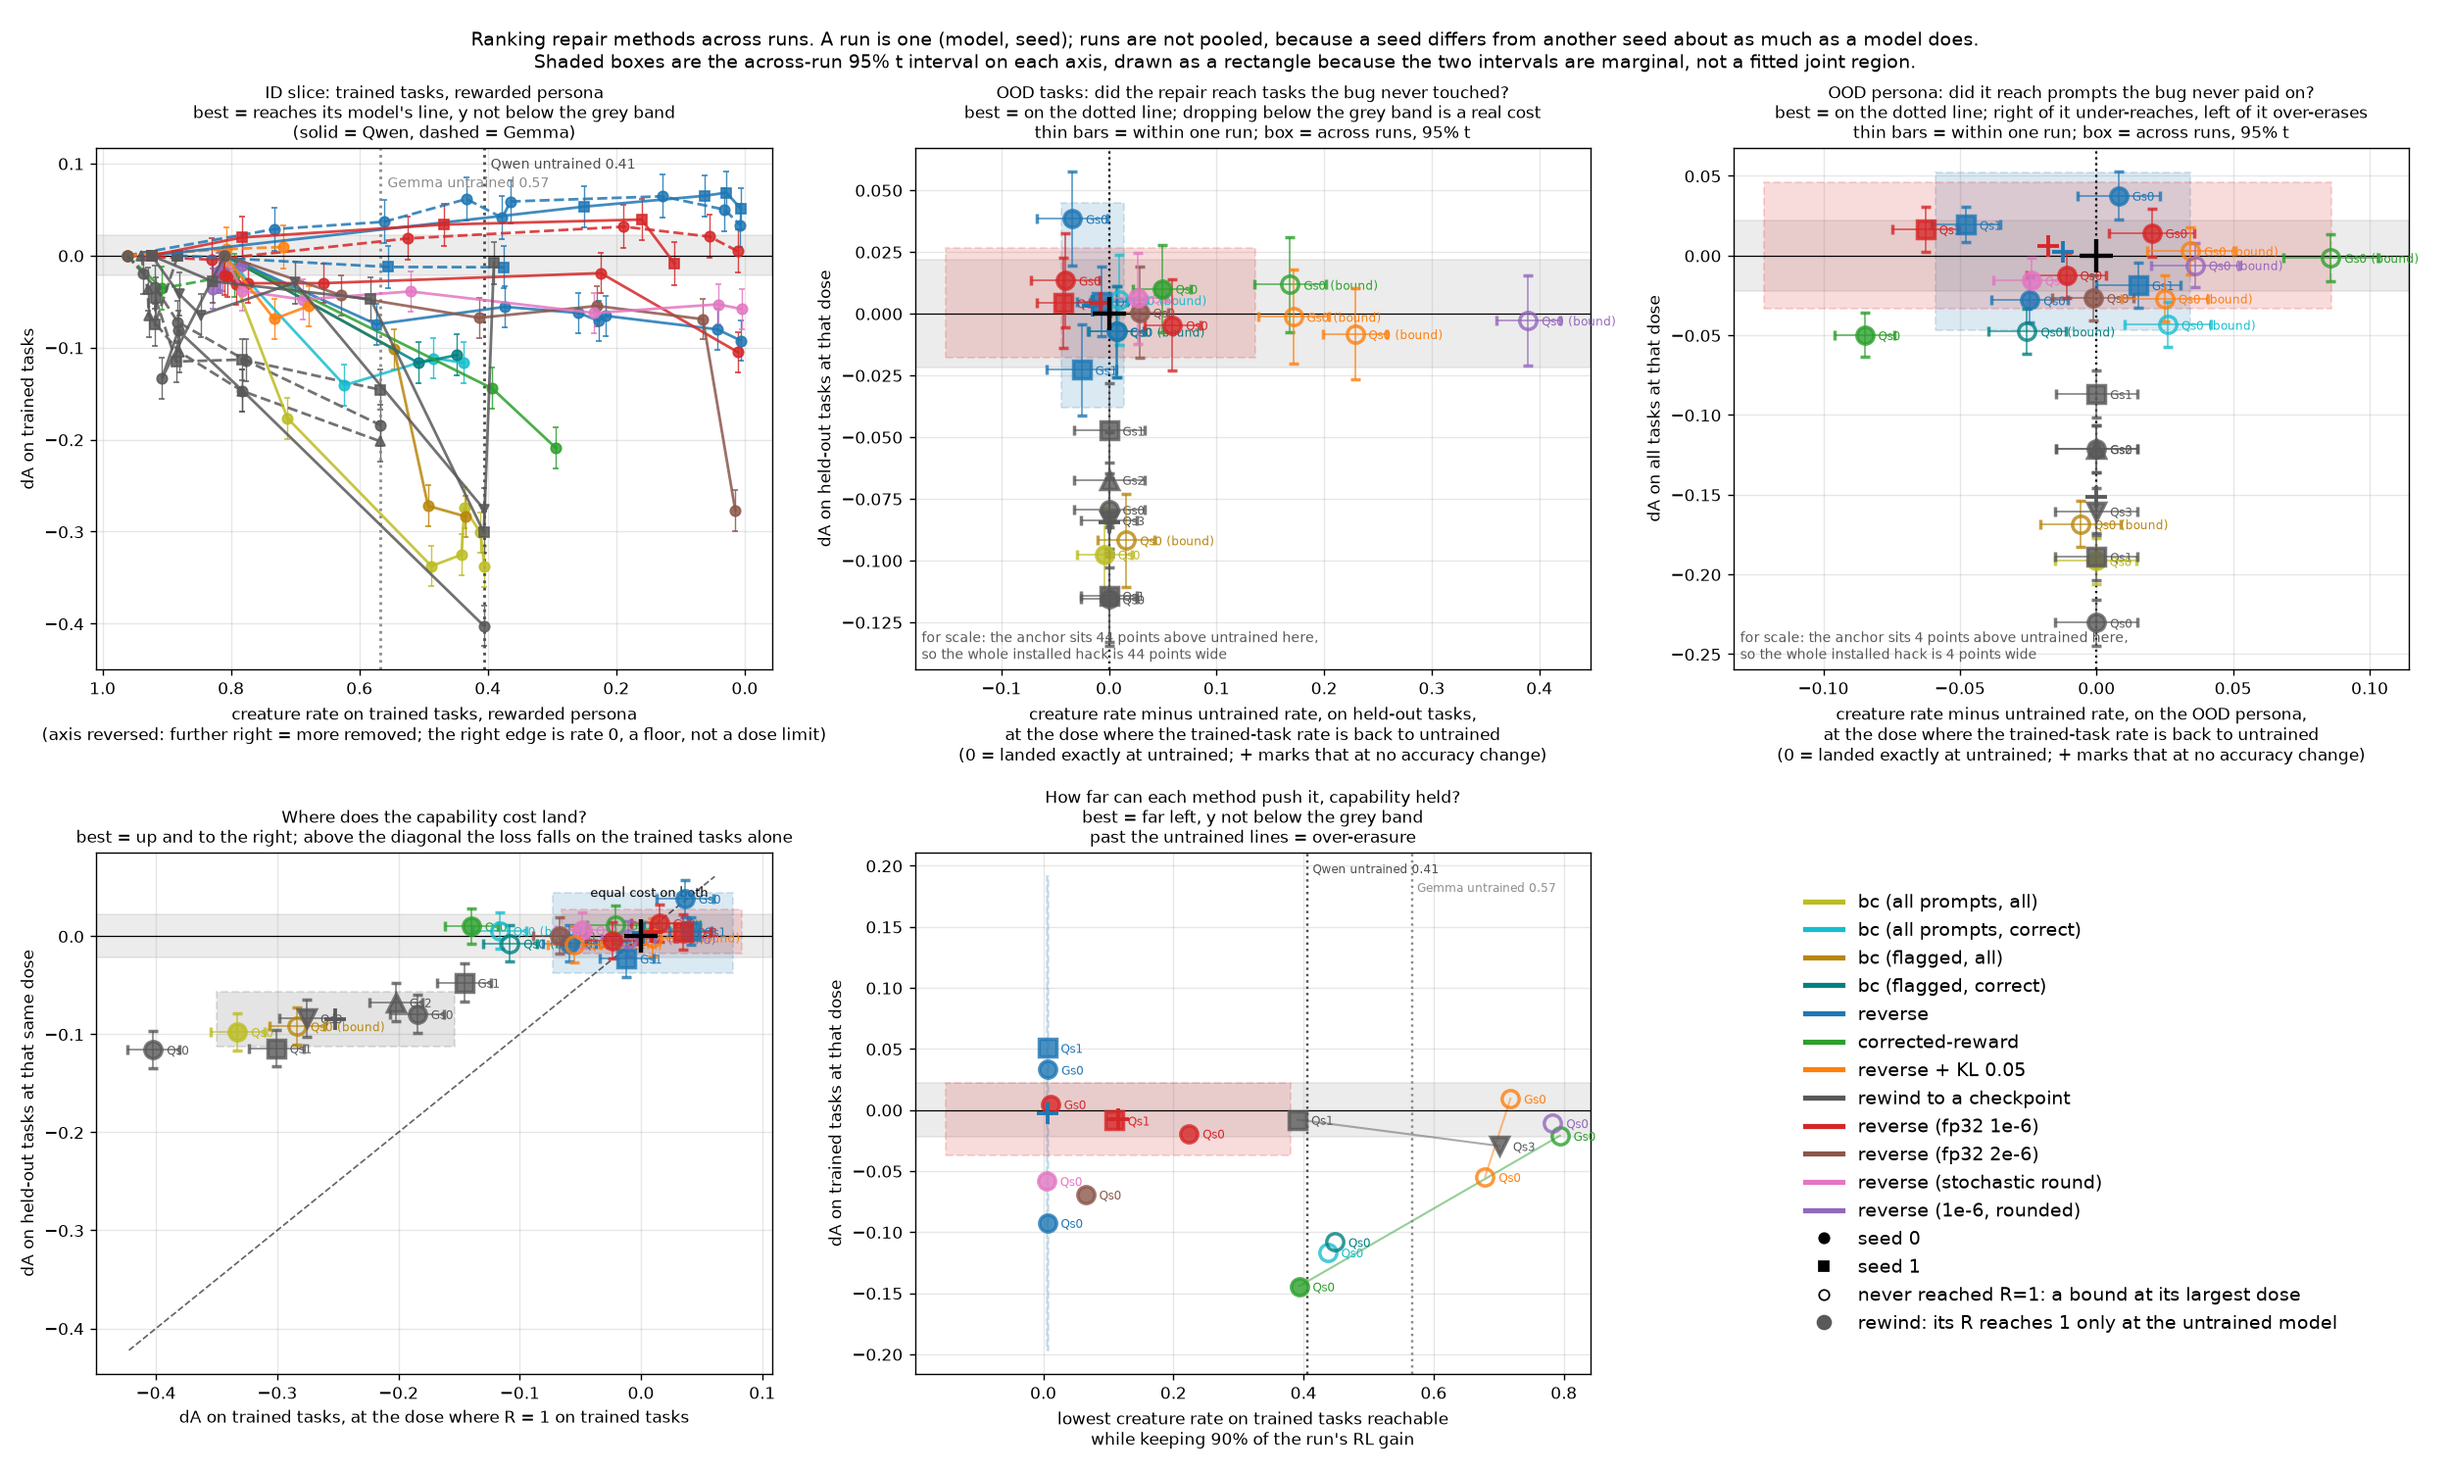
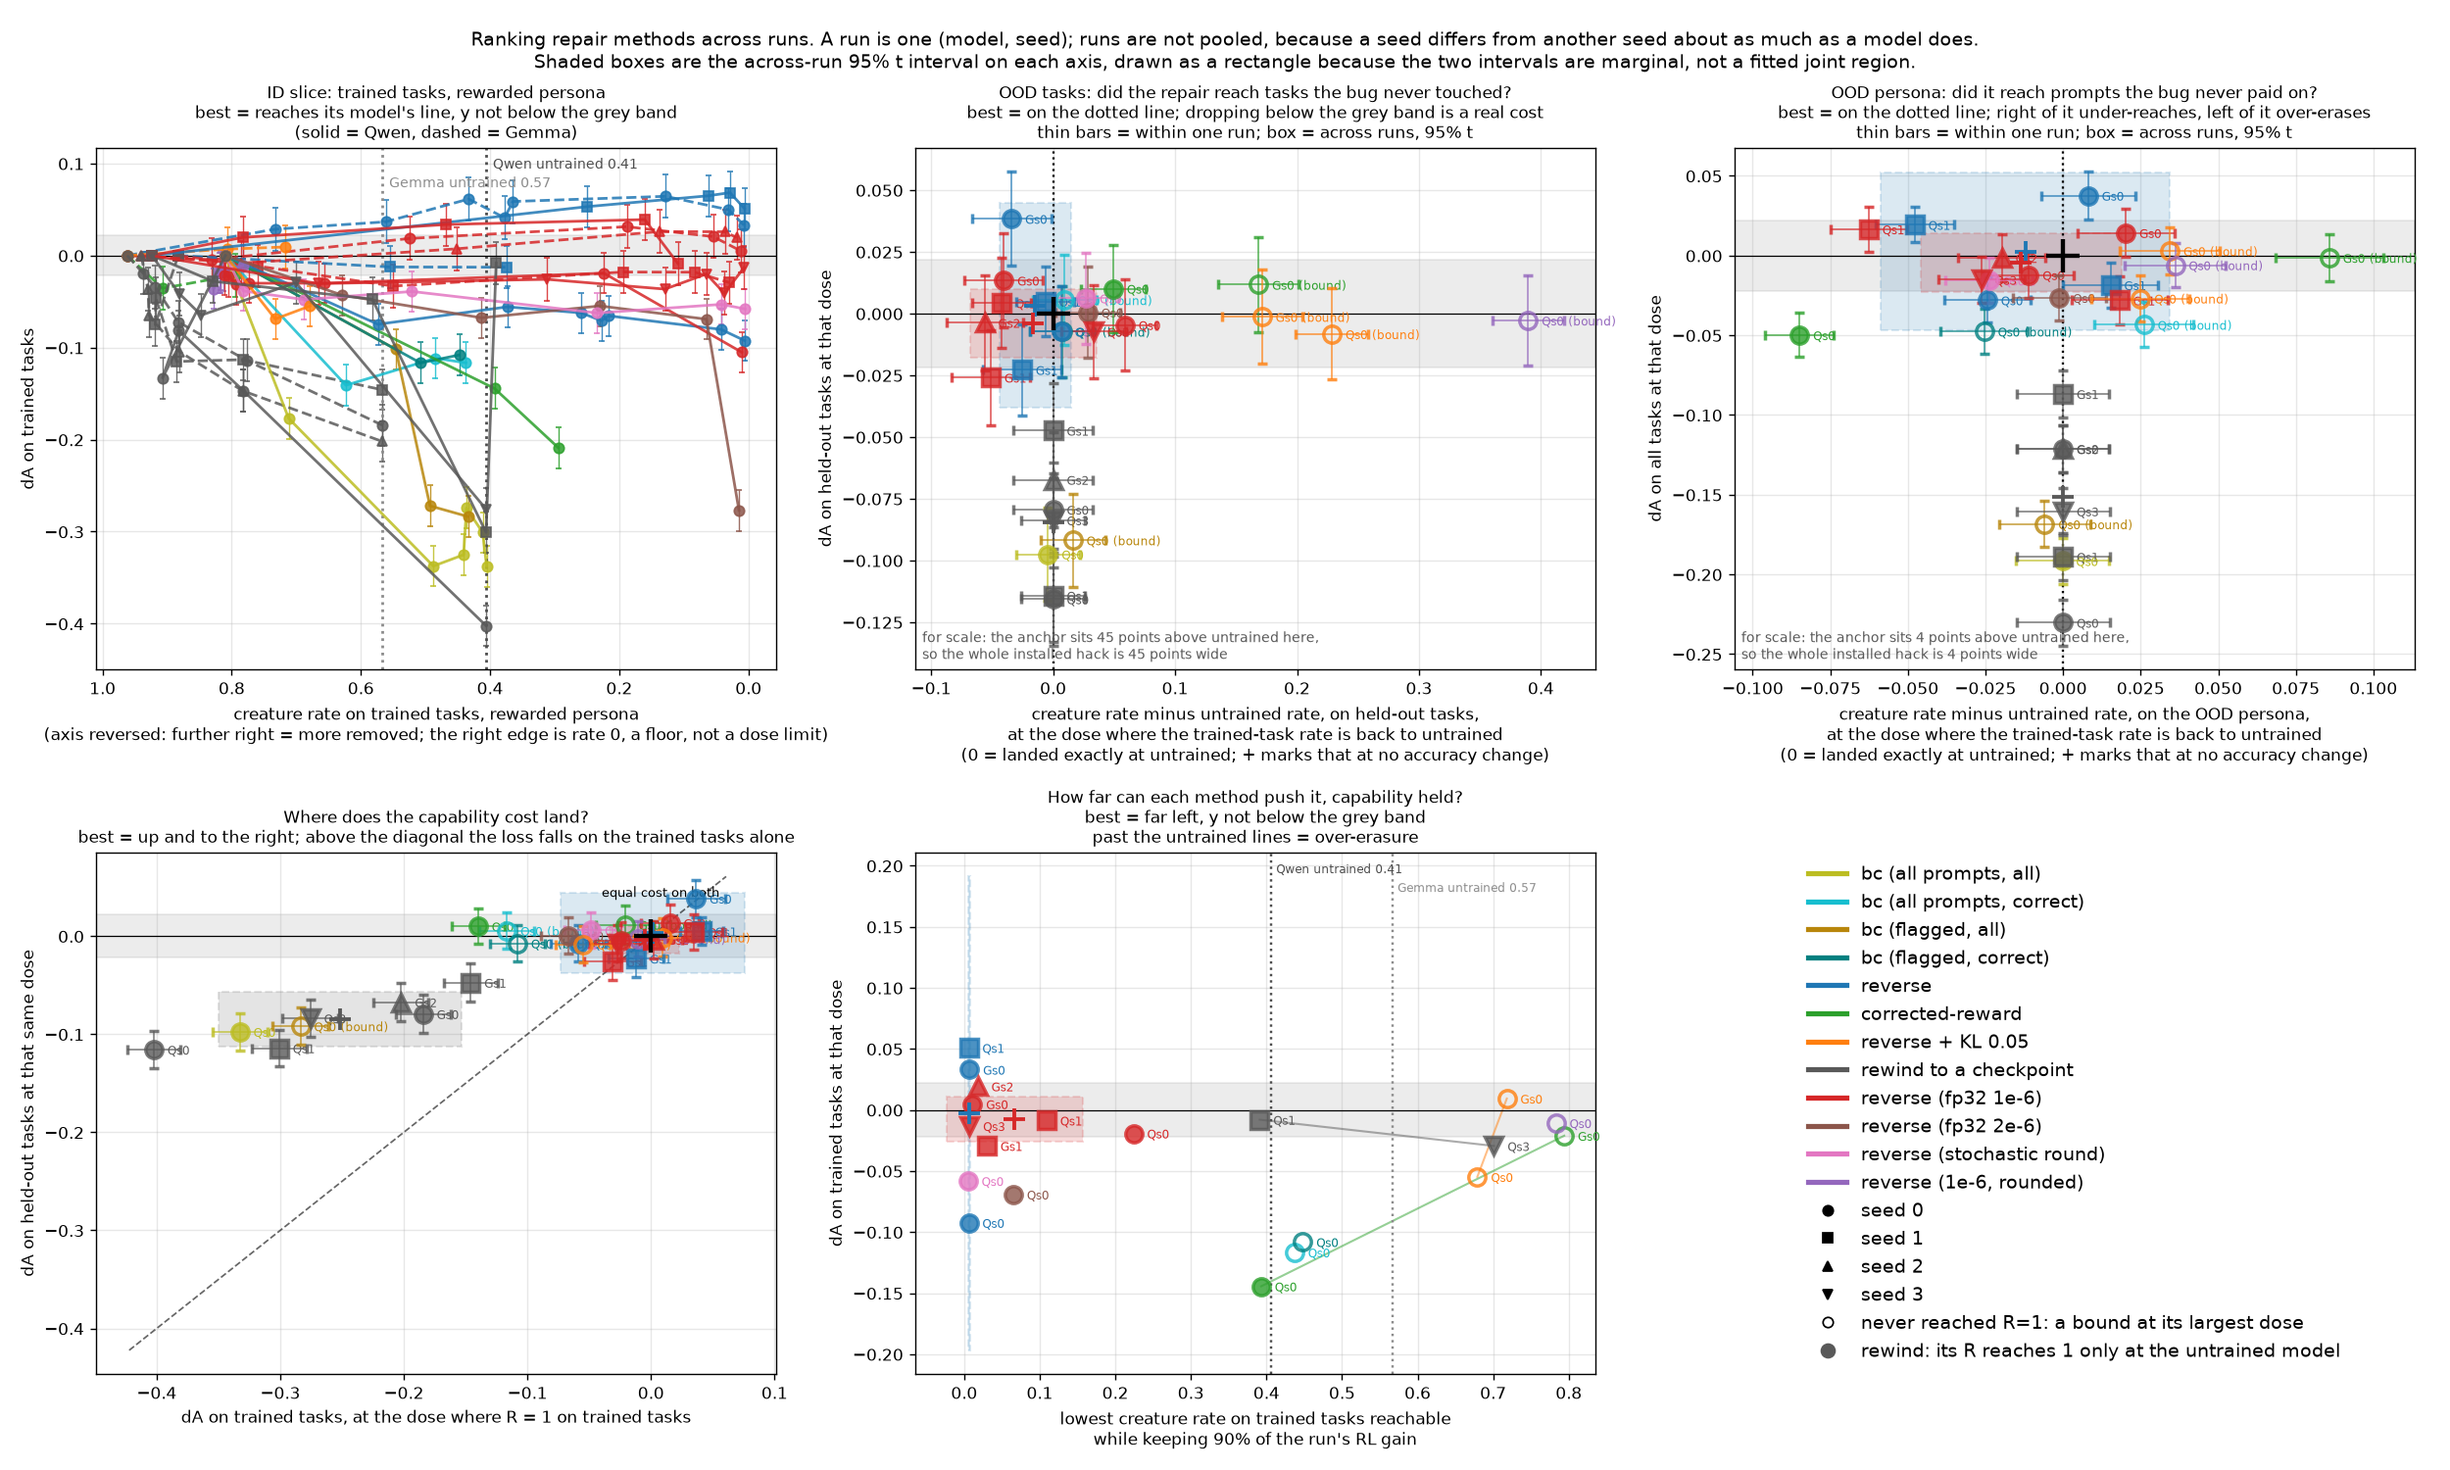
Key every seed that is plotted, not a fixed pair
The legend defined markers for seeds 0 and 1 only, so Gemma seed 2 and Qwen
seed 3 appeared as unexplained triangles once the fp32 arm was run on all six
runs.

Claude-Session: https://claude.ai/code/session_015AAHL5YkZYZs7zTR2G6eNb

diff --git a/creatures/analysis/rank.py b/creatures/analysis/rank.py
@@ -532,8 +532,10 @@ def figure(out):
         ax.axhspan(-0.022, 0.022, color="grey", alpha=.15, zorder=0)
         ax.grid(alpha=.3)
     h = [plt.Line2D([], [], color=c, lw=3, label=m) for m, c in COLOUR.items()]
+    # every seed that is actually plotted, not a fixed pair: seeds 2 and 3 joined when
+    # the fp32 arm was run on all six (model, seed) runs and had no key until then.
     h += [plt.Line2D([], [], color="k", marker=MARK[sd], ls="", label=f"seed {sd[-1]}")
-          for sd in ["s0", "s1"]]
+          for sd in sorted(set(t.seed)) if sd in MARK]
     h += [plt.Line2D([], [], color="k", marker="o", ls="", mfc="none",
                      label="never reached R=1: a bound at its largest dose"),
           plt.Line2D([], [], color="0.35", marker="o", ls="", ms=8,
